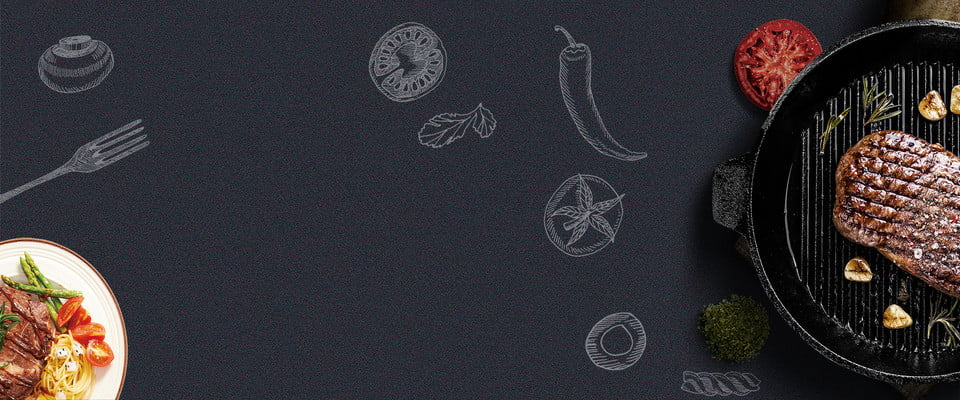
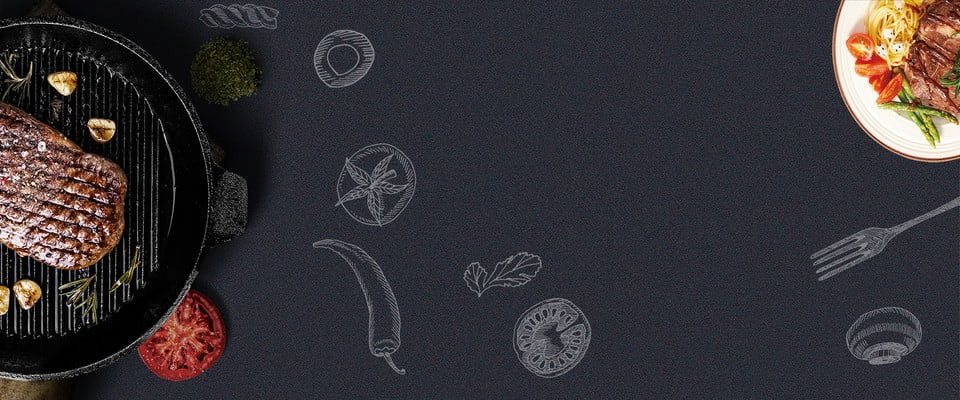
Primera historia de usuario desktop

diff --git a/src/styles.css b/src/styles.css
@@ -93,3 +93,43 @@ button:hover{
     width: calc(2rem + 0.5vw);
     height: calc(2rem + 0.5vh);
 }
+@media only screen and (min-width: 768px){
+    body{
+        background-image: url(Images/Bg2.jpg);
+        background-position: center center;
+        background-size: cover;
+    }
+    #containerPageOne>div{
+        margin: 2%;
+        font-size:1.1rem;
+    }
+    figure{
+        margin-top: 3%;
+    }
+    #foodBookIcon{
+        width: 12%;
+        height: 12%;
+    }
+    input{
+        margin-bottom: 0.5%;
+    }
+    #text{
+        width: 30%;
+    }
+    #passwordContainer{
+        width: 30%;
+        margin-bottom: 1%;
+    }
+    button{
+        width: 25%;
+        height: 35px;
+    }
+    #registerIcons{
+        display: flex;
+        justify-content: space-around;
+        align-items: center;
+        width: 10%;
+        height: 40px;
+        margin: 2%;
+    }
+}
